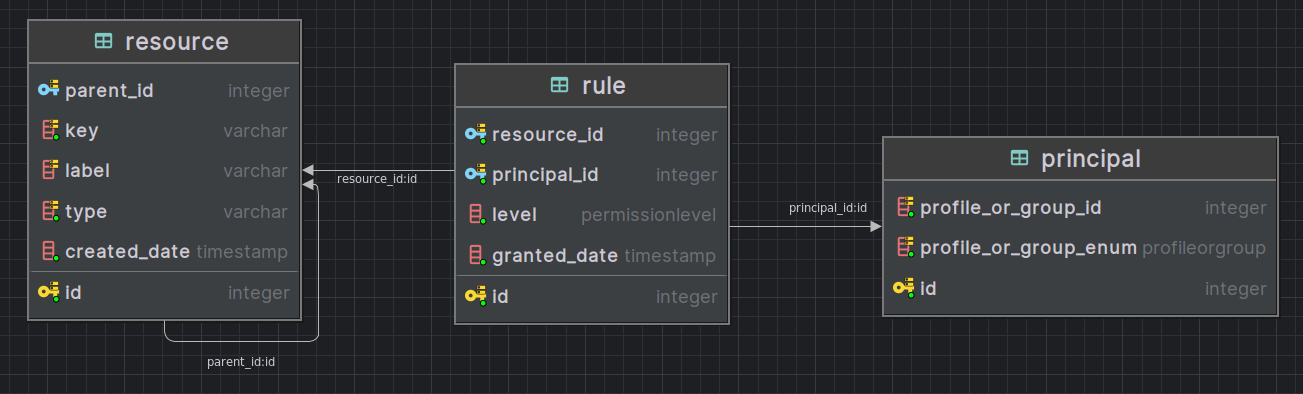
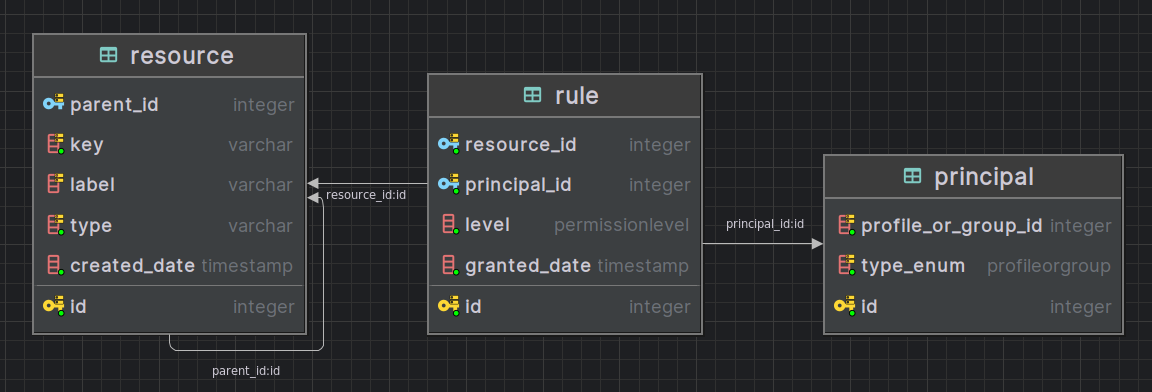
PEP-9: Update column names in Principal table

diff --git a/peps/pep-9.md b/peps/pep-9.md
@@ -111,9 +111,9 @@ The ACR Registry will store ACRs for all applications in the EDI ecosystem. We w
 
 - `principal.id` - Row ID of the principal (referenced in rules).
 - `principal.profile_or_group_id` - A reference to a profile or group.
-- `principal.profile_or_group_enum` - The principal class (enum of `PROFILE` or `GROUP`) of the principal.
+- `principal.type_enum` - The principal class (enum of `PROFILE` or `GROUP`) of the principal.
 
-For example, if we are tracking permissions for a data package with metadata and data entities, we would set up an inverted tree of resources (i.e., DAG). The `resource.label` of the root resource might be `knb-lter-bes.1234.5`, and the `resource.type` would be `package`. To this parent, we would add two child resources of `resource.type` `collection` and with labels `data` and `metadata`. These child resources would then have their own children, representing the individual data and metadata entities in the package. So a resource with parent `data` might have `resource.label` of `water.csv` while the `resource.key` would be the PASTA URI `https://pasta.lternet.edu/package/data/eml/knb-lter-bes.1234.5/3fb3ef2e559fa42956b69226e9069058`. The `resource.type` would be `data`. Rules would then be linked to these resources via `rule.resource_id`. Each rule would have a `rule.principal_id` of a user profile or user group. The `rule.level` would specify the level of access granted to the principal, and would be `read`, `write` or `changePermission`. The principal would be linked to the `principal.id` of the principal table. The `principal.profile_or_group_id` would be the row ID of a row in the Profile or Group table, and `principal.profile_or_group_enum` would be `PROFILE` or `GROUP`.
+For example, if we are tracking permissions for a data package with metadata and data entities, we would set up an inverted tree of resources (i.e., DAG). The `resource.label` of the root resource might be `knb-lter-bes.1234.5`, and the `resource.type` would be `package`. To this parent, we would add two child resources of `resource.type` `collection` and with labels `data` and `metadata`. These child resources would then have their own children, representing the individual data and metadata entities in the package. So a resource with parent `data` might have `resource.label` of `water.csv` while the `resource.key` would be the PASTA URI `https://pasta.lternet.edu/package/data/eml/knb-lter-bes.1234.5/3fb3ef2e559fa42956b69226e9069058`. The `resource.type` would be `data`. Rules would then be linked to these resources via `rule.resource_id`. Each rule would have a `rule.principal_id` of a user profile or user group. The `rule.level` would specify the level of access granted to the principal, and would be `read`, `write` or `changePermission`. The principal would be linked to the `principal.id` of the principal table. The `principal.profile_or_group_id` would be the row ID of a row in the Profile or Group table, and `principal.type_enum` would be `PROFILE` or `GROUP`.
 
 ![](./images/pep9-resource_tree.png)
 
